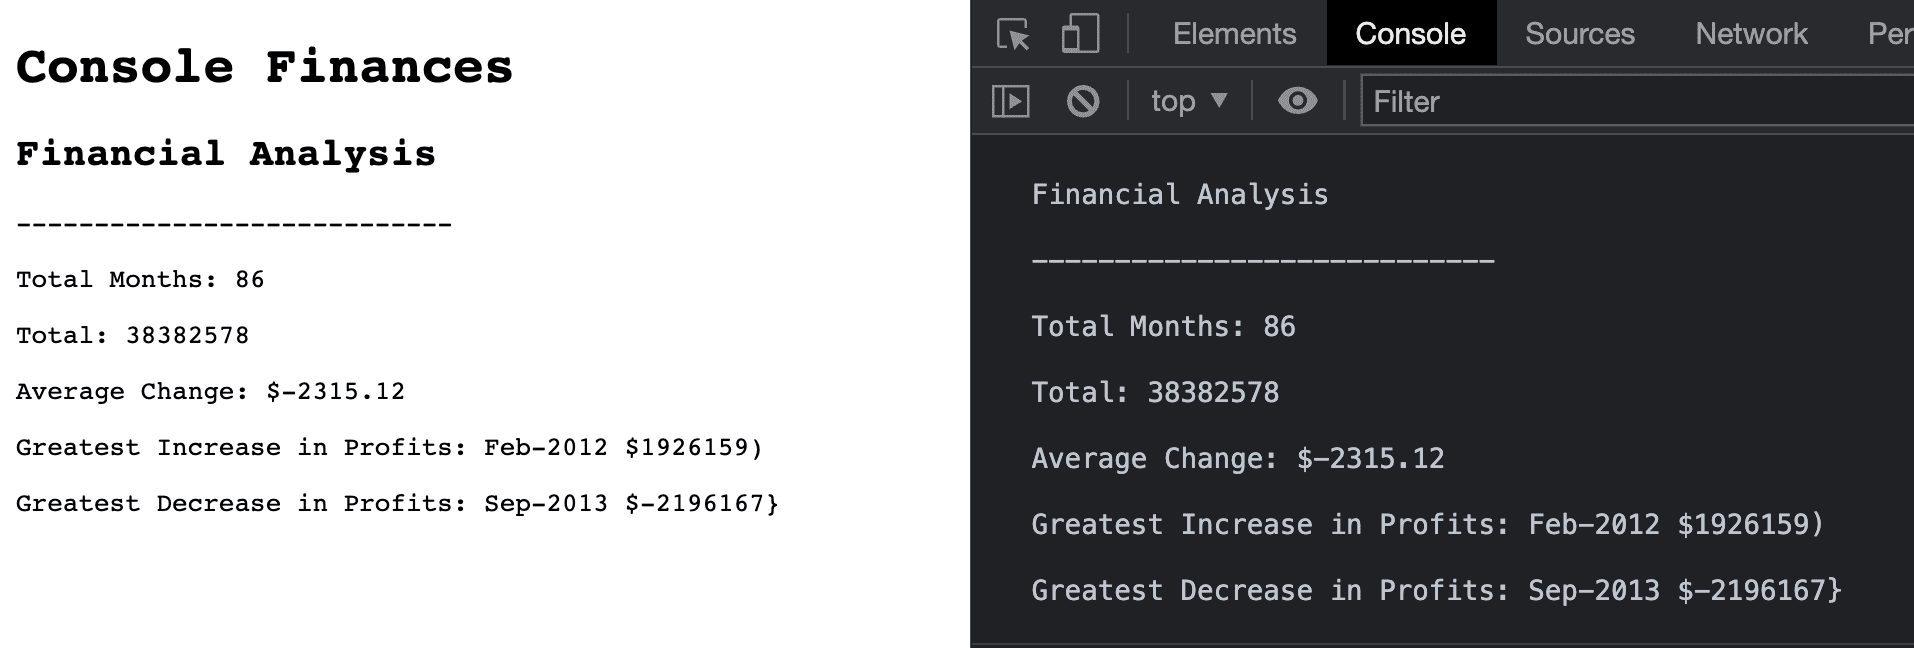
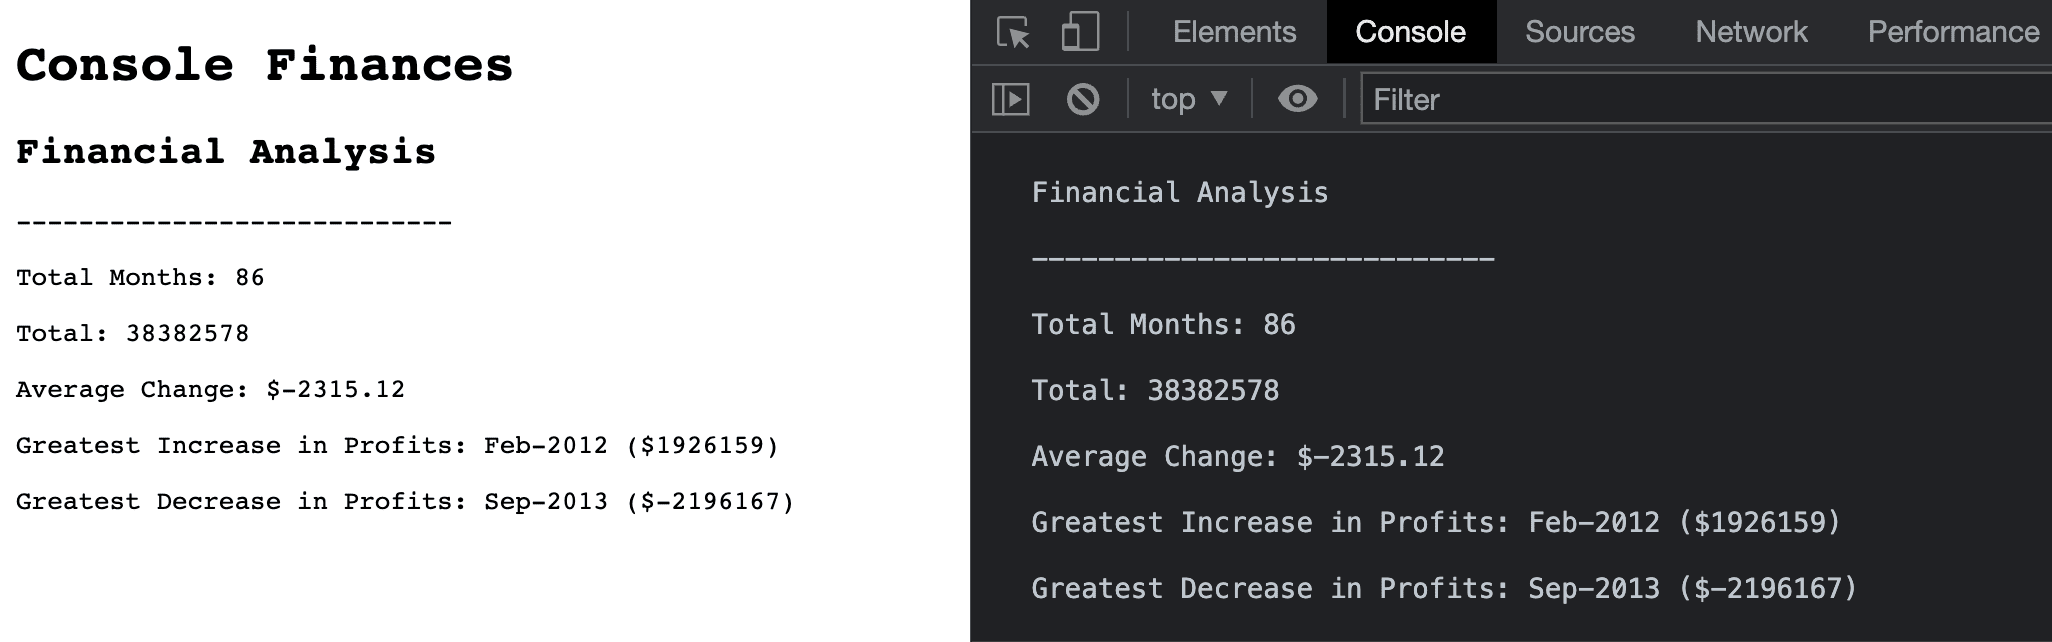
fixing typos

diff --git a/index.js b/index.js
@@ -125,9 +125,9 @@ Total: ${totalProfit}
 
 Average Change: $${averageChangeInProfits.toFixed(2)}
 
-Greatest Increase in Profits: ${maxProfitMonth} $${maxProfit})
+Greatest Increase in Profits: ${maxProfitMonth} ($${maxProfit})
 
-Greatest Decrease in Profits: ${minProfitMonth} $${minProfit}}
+Greatest Decrease in Profits: ${minProfitMonth} ($${minProfit})
 
 `
 )
@@ -143,6 +143,6 @@ analisys.innerHTML =
 <p>Total Months: ${totalMonths}<p>
 <p>Total: ${totalProfit}<p>
 <p>Average Change: $${averageChangeInProfits.toFixed(2)}<p>
-<p>Greatest Increase in Profits: ${maxProfitMonth} $${maxProfit})<p>
-<p>Greatest Decrease in Profits: ${minProfitMonth} $${minProfit}}<p>
+<p>Greatest Increase in Profits: ${maxProfitMonth} ($${maxProfit})<p>
+<p>Greatest Decrease in Profits: ${minProfitMonth} ($${minProfit})<p>
 `
